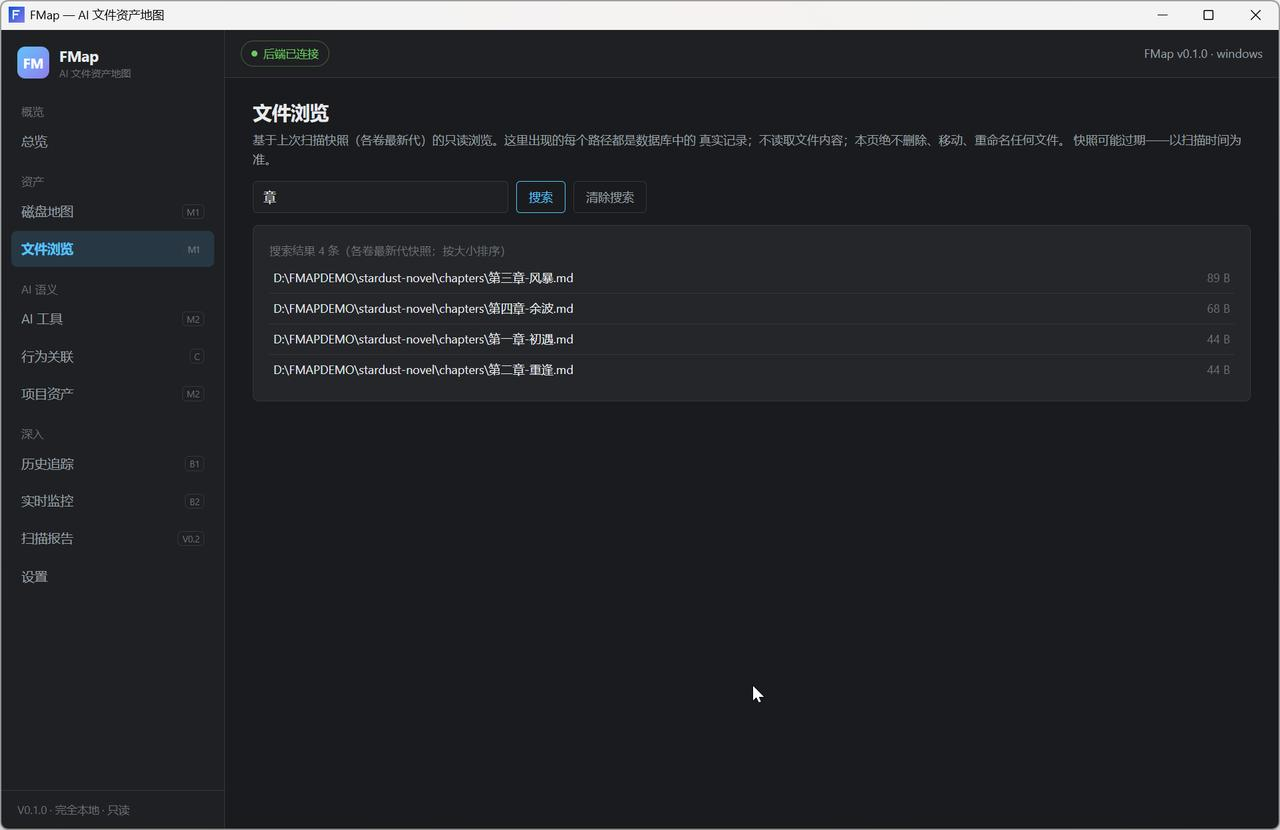
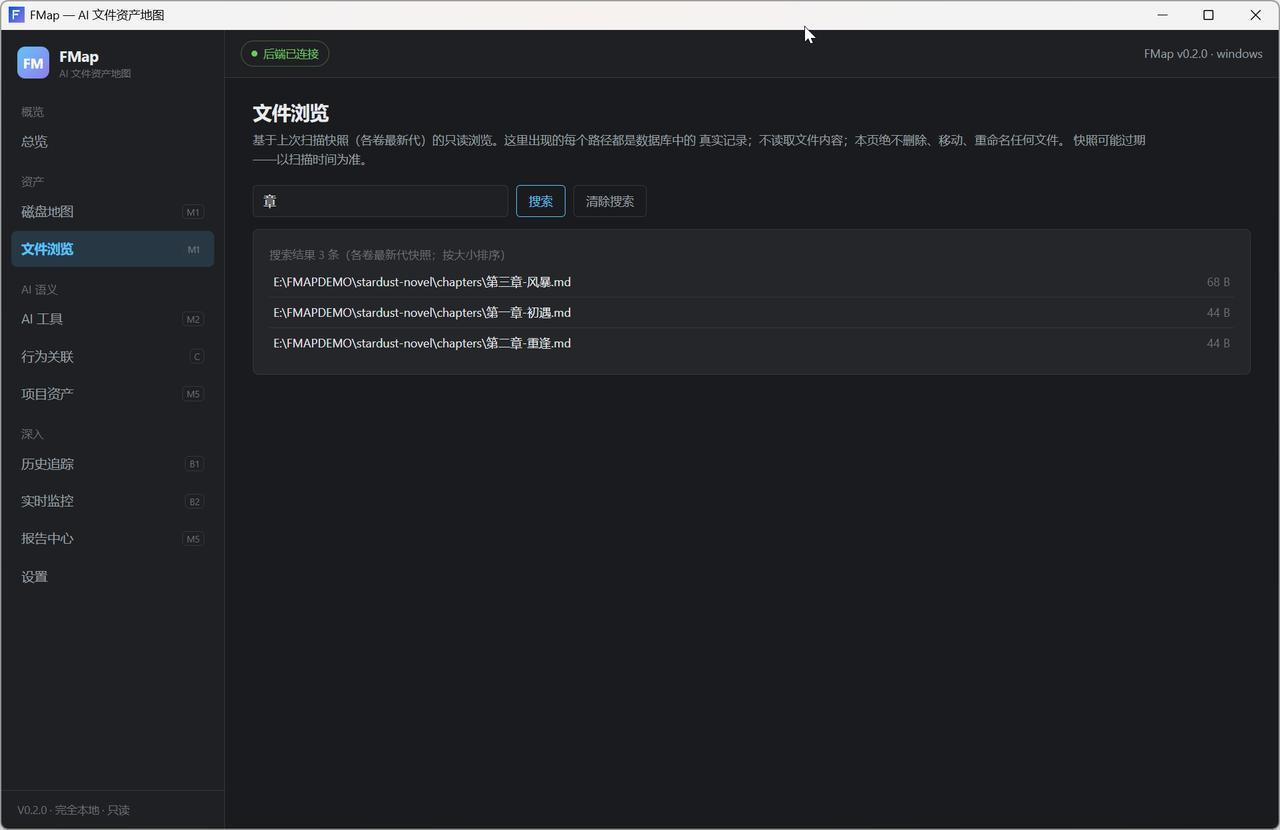
feat(m5-3): Overview 最近发现资产真实化 + Files hash 同步 + CI NSIS job + README v0.2.0 更新
- Overview 过时占位（AI 资产发现 M1-M2）→ 真实「最近发现的资产」区块：
  recent_discovered_assets（file_discovered 时间倒序 + 批量绝对路径 + 快照
  大小），诚实空态；2 测试
- Files 页浏览目录时同步 hash（#/files?path=N）——刷新/回退/复制链接可回位
- CI：push 限定 main + v* tags；新增 workflow_dispatch NSIS 构建 job
  （cargo install tauri-cli + artifact 上传，手动触发不拖慢常规 CI）
- README：Release 徽章 v0.2.0 + 下载段（方式零）+ 项目资产/报告中心截图
  入预览区；测试计数更新
- 145/0 全绿

diff --git a/apps/desktop/ui/src/pages/Overview.tsx b/apps/desktop/ui/src/pages/Overview.tsx
@@ -13,8 +13,13 @@ import {
   type ScanProgress,
   type SystemStatus,
   type VolumeInfo,
+  type RecentAsset,
 } from "../lib/ipc";
 import { formatBytes } from "../lib/format";
+
+function fmtTime(ms: number | null): string {
+  return ms ? new Date(ms).toLocaleString("zh-CN") : "—";
+}
 
 const SCAN_STATUS_LABEL: Record<string, string> = {
   pending: "等待扫描", running: "扫描中", done: "已完成", cancelled: "已取消",
@@ -423,7 +428,51 @@ export function Overview(props: { status: SystemStatus | null; error: string | n
       )}
 
       <h2 className="mb-2.5 mt-5 text-[14px] font-semibold">最近发现的资产</h2>
-      <DevPlaceholder feature="AI 资产发现" milestone="M1–M2" note="依赖扫描引擎（M1）与 AI 目录规则库（M2）。" />
+      <RecentAssets connected={connected} />
     </div>
+  );
+}
+
+/** 最近发现的资产（真实差分事件 file_discovered，时间倒序）。
+ *  口径：「首次观察到」≠ 刚刚创建；失败静默降级为空态提示。 */
+function RecentAssets(props: { connected: boolean }) {
+  const [assets, setAssets] = useState<RecentAsset[] | null>(null);
+  useEffect(() => {
+    if (!props.connected) return;
+    api
+      .getRecentAssets(8)
+      .then(setAssets)
+      .catch(() => setAssets([]));
+  }, [props.connected]);
+  if (!props.connected) return null;
+  if (assets === null) return <div className="text-[12px] text-[#9aa0a6]">读取中…</div>;
+  if (assets.length === 0) {
+    return (
+      <div className="rounded-md border border-dashed border-[#35373c] bg-[#1f2023] px-6 py-8 text-center">
+        <div className="text-[13px] text-[#9aa0a6]">尚无「首次观察到」的资产</div>
+        <div className="mt-1.5 text-[12px] text-[#6b7075]">
+          扫描两次后，第二次新观察到的文件会出现在这里（含新装的 AI 工具产物）。
+        </div>
+      </div>
+    );
+  }
+  return (
+    <Card>
+      {assets.map((a) => (
+        <div
+          key={a.event_id}
+          className="flex flex-wrap items-center gap-2.5 border-b border-[#35373c] px-1 py-2 text-[12px] last:border-0"
+        >
+          <span className="w-36 shrink-0 text-[#6b7075]">{fmtTime(a.ts)}</span>
+          <span className="min-w-0 flex-1 truncate font-mono text-[11.5px] text-[#e8eaed]" title={a.abs_path}>
+            {a.abs_path}
+          </span>
+          <span className="shrink-0 text-[#6b7075]">{formatBytes(a.size)}</span>
+        </div>
+      ))}
+      <div className="mt-1 text-[11px] text-[#6b7075]">
+        「首次观察到」来自相邻两次扫描的差分（M3-B1），不代表文件刚刚创建——详见历史追踪页。
+      </div>
+    </Card>
   );
 }

diff --git a/apps/desktop/ui/src/lib/ipc.ts b/apps/desktop/ui/src/lib/ipc.ts
@@ -239,6 +239,8 @@ export const api = {
     invoke<DiffRunRow[]>("get_diff_runs", { volumeId }),
   runDiffNow: (volumeId: number) =>
     invoke<DiffSummary>("run_diff_now", { volumeId }),
+  // M5 总览：最近发现的资产
+  getRecentAssets: (limit: number) => invoke<RecentAsset[]>("get_recent_assets", { limit }),
   // M5 关联分页/差分上限
   getDiffLimit: () => invoke<number>("get_diff_limit"),
   // M5 项目资产/报告中心
@@ -617,4 +619,13 @@ export interface ReportsData {
   tools: ToolUsageRow[];
   changes: VolumeChangeRow[];
   generated_at: number;
+}
+
+export interface RecentAsset {
+  event_id: number;
+  ts: number;
+  rel_path: string;
+  abs_path: string;
+  volume_root: string;
+  size: number | null;
 }

diff --git a/apps/desktop/ui/src/pages/Files.tsx b/apps/desktop/ui/src/pages/Files.tsx
@@ -149,6 +149,8 @@ export function Files() {
   const [err, setErr] = useState<string | null>(null);
 
   const navigateTo = useCallback((pathId: number) => {
+    // hash 同步：刷新/回退/复制链接都能回到当前目录（同页 setPage 幂等，不重挂载）。
+    location.hash = `#/files?path=${pathId}`;
     setErr(null);
     setSearchHits(null);
     setSearchQuery("");

diff --git a/crates/database/src/lib.rs b/crates/database/src/lib.rs
@@ -1875,3 +1875,134 @@ fn map_event_row(r: &rusqlite::Row) -> rusqlite::Result<HistoryEventRow> {
         entity_id: r.get(6)?,
     })
 }
+
+// ==================== M5 总览页：最近发现的资产 ====================
+
+/// 最近发现的资产行（总览页"最近发现的资产"区块数据源；真实差分事件）。
+#[derive(Debug, Clone, serde::Serialize)]
+pub struct RecentAssetRow {
+    pub event_id: i64,
+    pub ts: i64,
+    /// 卷根相对路径
+    pub rel_path: String,
+    /// 快照绝对路径（卷根 + 名称链；展示用）
+    pub abs_path: String,
+    pub volume_root: String,
+    /// 文件大小（字节；快照值，路径行缺失时 None）
+    pub size: Option<i64>,
+}
+
+impl Database {
+    /// 最近"首次观察到"的资产（file_discovered，时间倒序）。
+    /// 附绝对路径（批量构建，消除 N+1）与快照大小；无事件 → 空列表（诚实空态）。
+    pub fn recent_discovered_assets(&self, limit: i64) -> Result<Vec<RecentAssetRow>, CoreError> {
+        let lim = limit.clamp(1, 50);
+        let mut stmt = self
+            .conn
+            .prepare(
+                "SELECT e.id, e.ts, e.rel_path, e.volume_id, v.root, p.size, e.path_id
+                 FROM file_events e
+                 JOIN volumes v ON v.id = e.volume_id
+                 LEFT JOIN paths p ON p.id = e.path_id
+                 WHERE e.kind = 'file_discovered'
+                 ORDER BY e.ts DESC, e.id DESC LIMIT ?1",
+            )
+            .map_err(|e| CoreError::Database(format!("最近资产查询失败: {e}")))?;
+        let it = stmt
+            .query_map([lim], |r| {
+                Ok((
+                    r.get::<_, i64>(0)?,
+                    r.get::<_, i64>(1)?,
+                    r.get::<_, String>(2)?,
+                    r.get::<_, String>(4)?,
+                    r.get::<_, Option<i64>>(5)?,
+                    r.get::<_, Option<i64>>(6)?,
+                ))
+            })
+            .map_err(|e| CoreError::Database(format!("最近资产查询失败: {e}")))?;
+        type RecentRawRow = (i64, i64, String, String, Option<i64>, Option<i64>);
+        let mut raw: Vec<RecentRawRow> = Vec::new();
+        for row in it {
+            raw.push(row.map_err(|e| CoreError::Database(format!("最近资产读取失败: {e}")))?);
+        }
+        // 批量绝对路径（一次祖先层加载）
+        let ids: Vec<i64> = raw.iter().filter_map(|r| r.5).collect();
+        let abs_map = self.abs_paths_bulk(&ids).unwrap_or_default();
+        let mut out: Vec<RecentAssetRow> = Vec::new();
+        for (event_id, ts, rel_path, volume_root, size, path_id) in raw {
+            let abs = path_id
+                .and_then(|pid| abs_map.get(&pid).cloned())
+                .unwrap_or_else(|| format!("{volume_root}{rel_path}"));
+            out.push(RecentAssetRow {
+                event_id,
+                ts,
+                rel_path: rel_path.clone(),
+                abs_path: abs,
+                volume_root,
+                size,
+            });
+        }
+        Ok(out)
+    }
+}
+
+#[cfg(test)]
+mod recent_asset_tests {
+    use super::*;
+
+    #[test]
+    fn t63_最近发现的资产_时间倒序_绝对路径_含快照大小() {
+        let db = Database::open(":memory:".as_ref()).unwrap();
+        let vol = db
+            .upsert_volume("E:\\", None, None, None, None, false)
+            .unwrap();
+        let scan = db
+            .begin_scan(&["E:\\".into()], "t", db.instance_id())
+            .unwrap();
+        let root = db
+            .insert_path(scan, vol, None, "E:", 0, true, 0, Some(0), 0)
+            .unwrap();
+        let novel = db
+            .insert_path(scan, vol, Some(root), "NOVEL", 1, true, 0, Some(0), 0)
+            .unwrap();
+        let c3 = db
+            .insert_path(scan, vol, Some(novel), "c3.md", 2, false, 300, Some(0), 0)
+            .unwrap();
+        let c4 = db
+            .insert_path(scan, vol, Some(novel), "c4.md", 2, false, 400, Some(0), 0)
+            .unwrap();
+        // 三条 discovered 事件（时间 100/200/300）
+        for (pid, rel, ts) in [(c3, "NOVEL/c3.md", 100), (c4, "NOVEL/c4.md", 200)] {
+            db.conn.execute(
+                "INSERT INTO file_events(path_id,volume_id,rel_path,rel_key,ts,kind,scan_id,detail)
+                 VALUES(?1,?2,?3,?4,?5,'file_discovered',?6,'{}')",
+                rusqlite::params![pid, vol, rel, rel.to_uppercase(), ts, scan],
+            ).unwrap();
+        }
+        // 一条老事件时间最早（检验倒序）
+        db.conn
+            .execute(
+                "INSERT INTO file_events(path_id,volume_id,rel_path,rel_key,ts,kind,scan_id,detail)
+             VALUES(?1,?2,'NOVEL/c2.md','NOVEL/C2.MD',50,'file_discovered',?3,'{}')",
+                rusqlite::params![novel, vol, scan],
+            )
+            .unwrap();
+        let rows = db.recent_discovered_assets(10).unwrap();
+        assert_eq!(rows.len(), 3);
+        assert_eq!(rows[0].abs_path, r"E:\NOVEL\c4.md", "最新在前 + 绝对路径");
+        assert_eq!(rows[0].size, Some(400));
+        // limit 钳制
+        assert_eq!(db.recent_discovered_assets(2).unwrap().len(), 2);
+        assert_eq!(
+            db.recent_discovered_assets(0).unwrap().len(),
+            1,
+            "0 → 钳为 1"
+        );
+    }
+
+    #[test]
+    fn t64_无事件_空列表_诚实空态() {
+        let db = Database::open(":memory:".as_ref()).unwrap();
+        assert!(db.recent_discovered_assets(10).unwrap().is_empty());
+    }
+}

diff --git a/apps/desktop/src-tauri/src/commands.rs b/apps/desktop/src-tauri/src/commands.rs
@@ -464,3 +464,37 @@ pub fn get_diff_limit(state: State<'_, AppState>) -> Result<i64, CommandError> {
         .ok_or_else(|| CommandError::database(DB_NOT_READY))?;
     Ok(diff_pass::configured_max_diff_events(db) as i64)
 }
+
+/// 最近发现的资产（总览页"最近发现的资产"区块；真实差分事件）。
+#[derive(serde::Serialize)]
+pub struct RecentAsset {
+    pub event_id: i64,
+    pub ts: i64,
+    pub rel_path: String,
+    pub abs_path: String,
+    pub volume_root: String,
+    pub size: Option<i64>,
+}
+
+#[tauri::command]
+pub fn get_recent_assets(
+    state: State<'_, AppState>,
+    limit: Option<i64>,
+) -> Result<Vec<RecentAsset>, CommandError> {
+    let guard = state.db.lock().unwrap();
+    let db = guard
+        .as_ref()
+        .ok_or_else(|| CommandError::database(DB_NOT_READY))?;
+    Ok(db
+        .recent_discovered_assets(limit.unwrap_or(8))?
+        .into_iter()
+        .map(|r| RecentAsset {
+            event_id: r.event_id,
+            ts: r.ts,
+            rel_path: r.rel_path,
+            abs_path: r.abs_path,
+            volume_root: r.volume_root,
+            size: r.size,
+        })
+        .collect())
+}

diff --git a/apps/desktop/src-tauri/src/lib.rs b/apps/desktop/src-tauri/src/lib.rs
@@ -165,6 +165,7 @@ pub fn run() {
             commands::run_diff_now,
             commands::diff_raise_limit,
             commands::get_diff_limit,
+            commands::get_recent_assets,
             commands::diff_abandon_pair,
             commands_m3b::watch_list,
             commands_m3b::watch_add_root,
